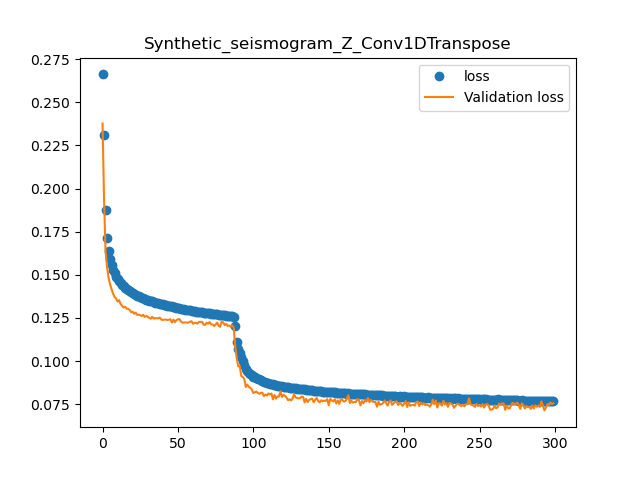
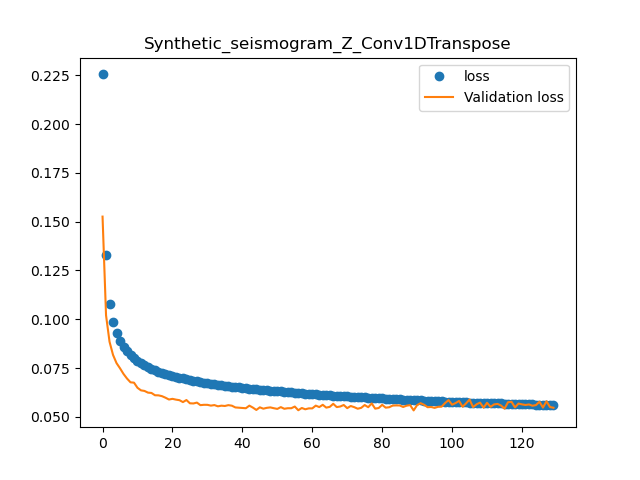
Update

diff --git a/load_model_and_test.py b/load_model_and_test.py
@@ -5,12 +5,14 @@ import h5py
 import keras
 
 # %% load model
-model = keras.models.load_model('./Model_and_datasets/Synthetic_seismogram_Z_Conv1DTranspose_ENZ2.hdf5')
+model = keras.models.load_model('./Model_and_datasets/Synthetic_seismogram_Z_Conv1DTranspose_ENZ.hdf5')
 # %% load dataset
 with h5py.File('./Model_and_datasets/Synthetic_seismogram_Autoencoder_model_datasets_ENZ.hdf5', 'r') as f:
     time = f['time'][:]
     X_test = f['X_test'][:]
     Y_test = f['Y_test'][:]
+    X_train = f['X_train'][:]
+    Y_train = f['Y_train'][:]
 
 # %% predict the waveforms
 Y_predict = model.predict(X_test)

diff --git a/autoencoder_denoise_test.py b/autoencoder_denoise_test.py
@@ -233,7 +233,7 @@ model.compile(loss='mean_squared_error',
 # %% train the model
 from keras.callbacks import EarlyStopping
 
-early_stopping_monitor = EarlyStopping(monitor='val_loss', patience=20)
+early_stopping_monitor = EarlyStopping(monitor='val_loss', patience=40)
 model_train = model.fit(X_train, Y_train,
                         batch_size=BATCH_SIZE,
                         epochs=EPOCHS,
